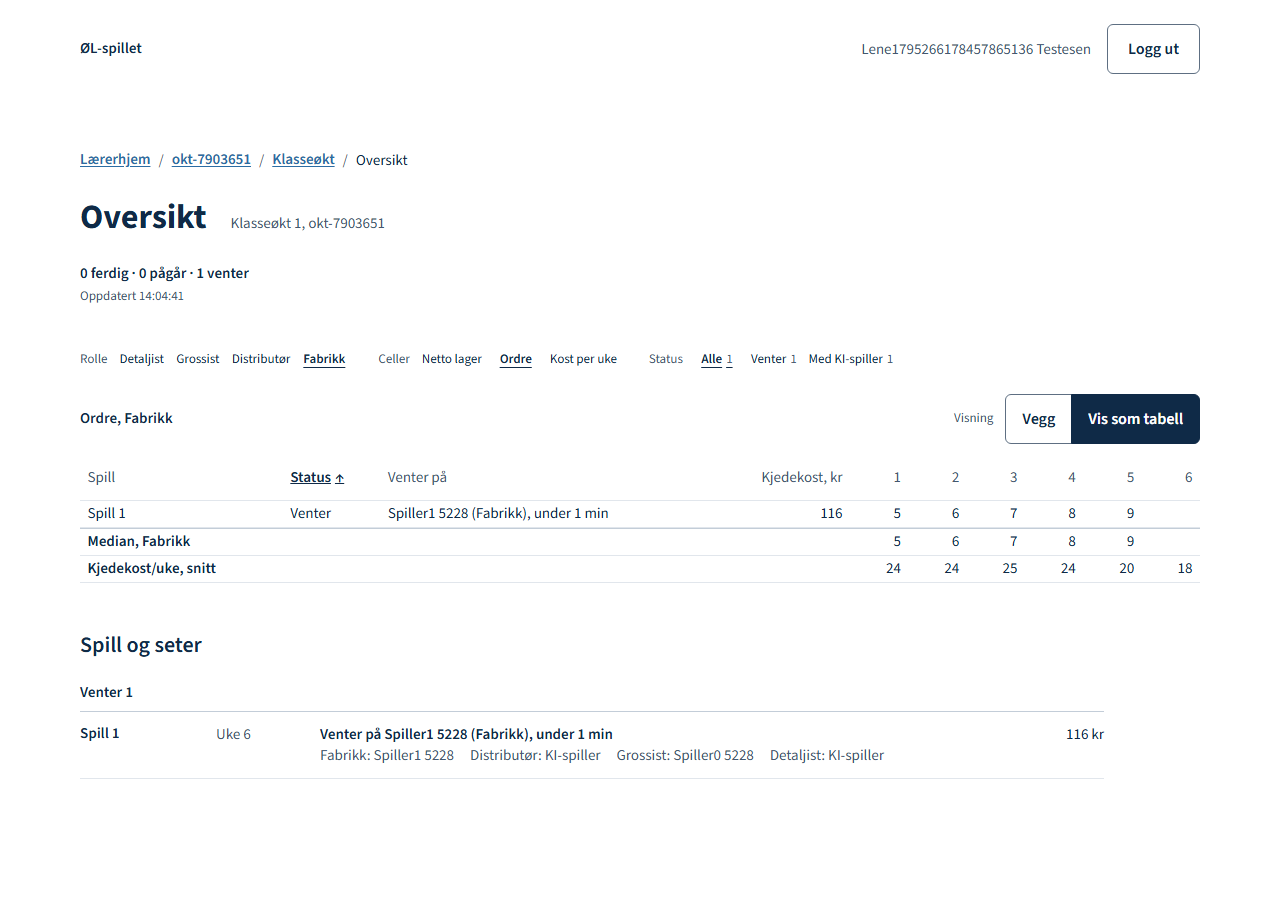
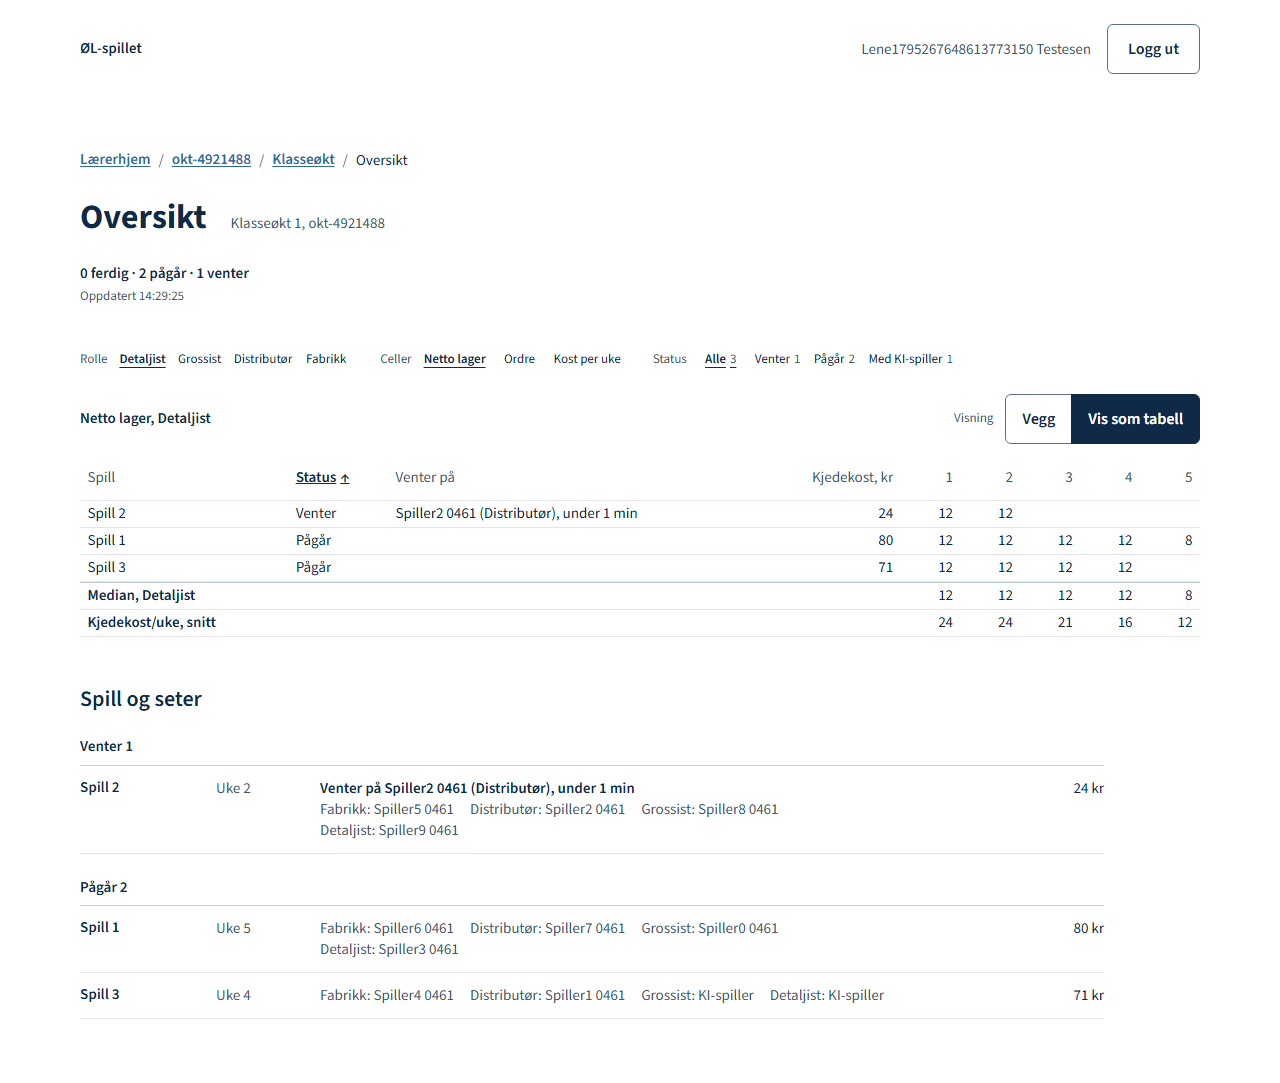
Sprint: Story 7.4 done
Claude-Session: https://claude.ai/code/session_011XDckpXAGxp3jR8JKKpHig

diff --git a/.docs/implementation-artifacts/screenshots/7.4/README.md b/.docs/implementation-artifacts/screenshots/7.4/README.md
@@ -1,0 +1,16 @@
+# Story 7.4 – visuell sjekk av Oversikten (`/klasseokter/{id}/oversikt`)
+
+Fersk Faglærer, tre Klassespill (4 + 2 + 4 seter, 2–4 uker spilt, ett spill som venter), Chromium `--lang=nb-NO`. Hver tilstand er tatt i tre bredder: `-390` (telefon), `-1280` (laptop), `-200pct` (1280 px med 200 % tekst). Ingen sideveis sidescroll i noen av dem (målt: scrollWidth minus clientWidth = 0). Ingen kodeendringer var nødvendig, så skjermbildene er tatt én gang.
+
+- `oversikt-standard-<bredde>.png`: standardvegg (Fabrikk, Netto lager, Alle) med medianlinje og bånd over veggen, «Median, Fabrikk» og «Kjedekost/uke, snitt» under. Samsvarer med `08-laerer-oversikt`; Visning-bryteren sitter ved overskriften.
+- `oversikt-celler-ordre-<bredde>.png`: Celler = Ordre, flytfargeskala (Under 5 … 30 og over), median over Ordre. Samsvarer.
+- `oversikt-celler-kost-<bredde>.png`: Celler = Kost per uke, samme flytskala. Samsvarer. Ved 390 klippes «Venter på …»-teksten av høyre kant av veggregionen (regionen scroller, siden gjør det ikke). Se avvik.
+- `oversikt-rolle-detaljist-kost-<bredde>.png`: Rolle = Detaljist (kost). Samsvarer; radene heter «Median, Detaljist».
+- `oversikt-status-venter-<bredde>.png`: Status = Venter, ett spill; medianen er spillets egen verdi, uten bånd. Samsvarer.
+- `oversikt-status-tom-<bredde>.png`: Status Venter valgt mens spillet går videre, «Ingen spill i dette utvalget.» i stedet for veggen; «Venter 0» blir stående som valgt. Samsvarer.
+- `oversikt-tabell-<bredde>.png`: Vis som tabell med Rolle = Detaljist; tabellen fyller regionen, «Venter på» på én linje (1280), «Median, Detaljist» og «Kjedekost/uke, snitt» i bunnteksten. Samsvarer. Ved 390 scroller tabellen sideveis inne i regionen.
+- `oversikt-vegg-320.png`, `oversikt-ordre-320.png`, `oversikt-tabell-320.png`, `oversikt-vegg-1280.png`, `oversikt-ordre-1280.png`: fra byggeren, ikke tatt på nytt. `oversikt-tabell-1280.png` er overskrevet av denne kjøringen.
+
+## Avvik overlatt til skjønn
+- Ved 390 er «Venter på Spiller2 0461 (Distribu…» avkuttet i veggregionen (`oversikt-celler-kost-390.png`, `oversikt-standard-390.png`). Samme grep som tidligere stories (regionen scroller, tabindex 0); full tekst står i «Spill og seter» under.
+- Tallene i veggcellene og medianradene er svært små (rundt 8 px) ved 390. Som i mockupen; tabellvisningen gir alle tall i 13 px.
